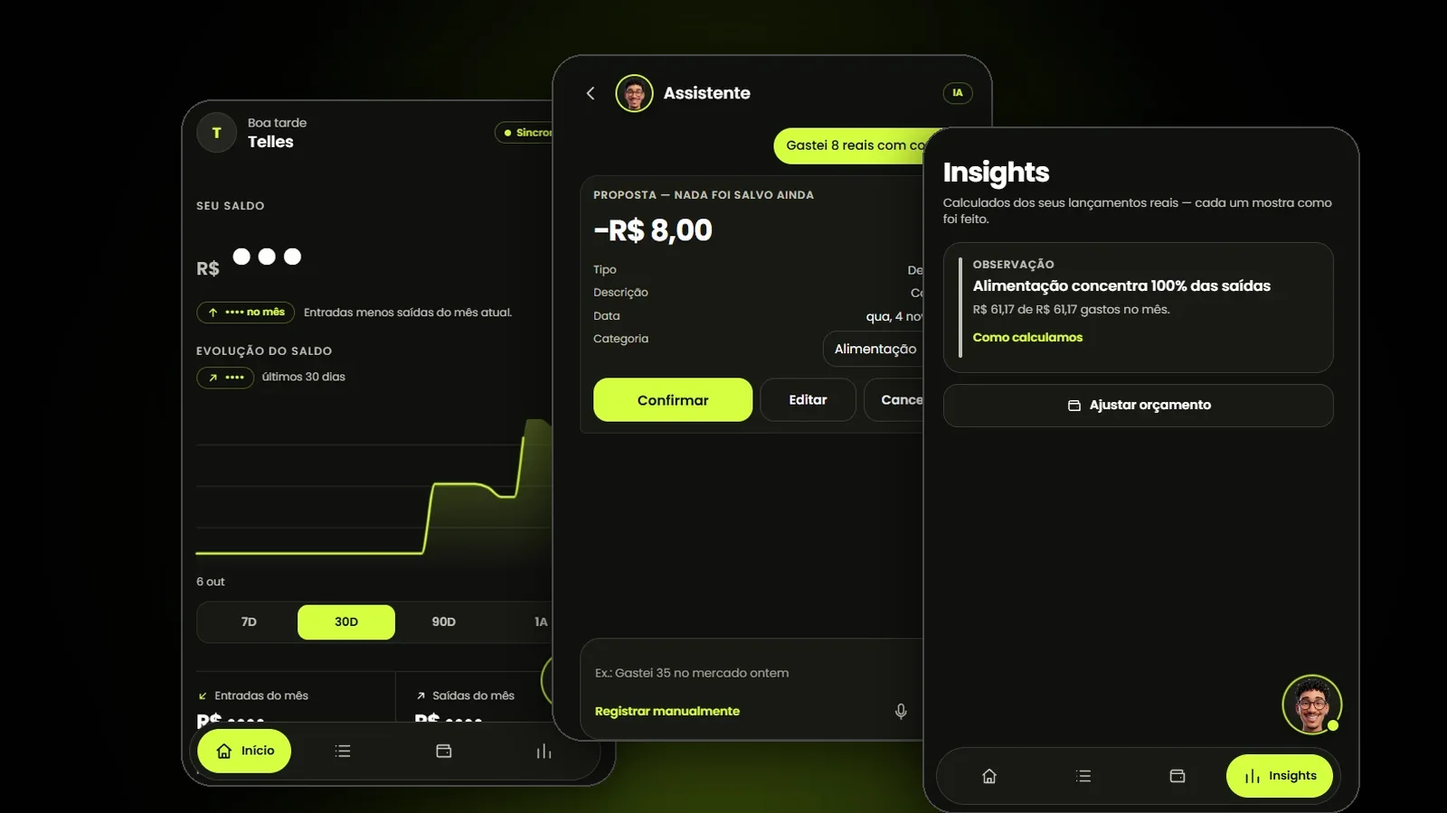
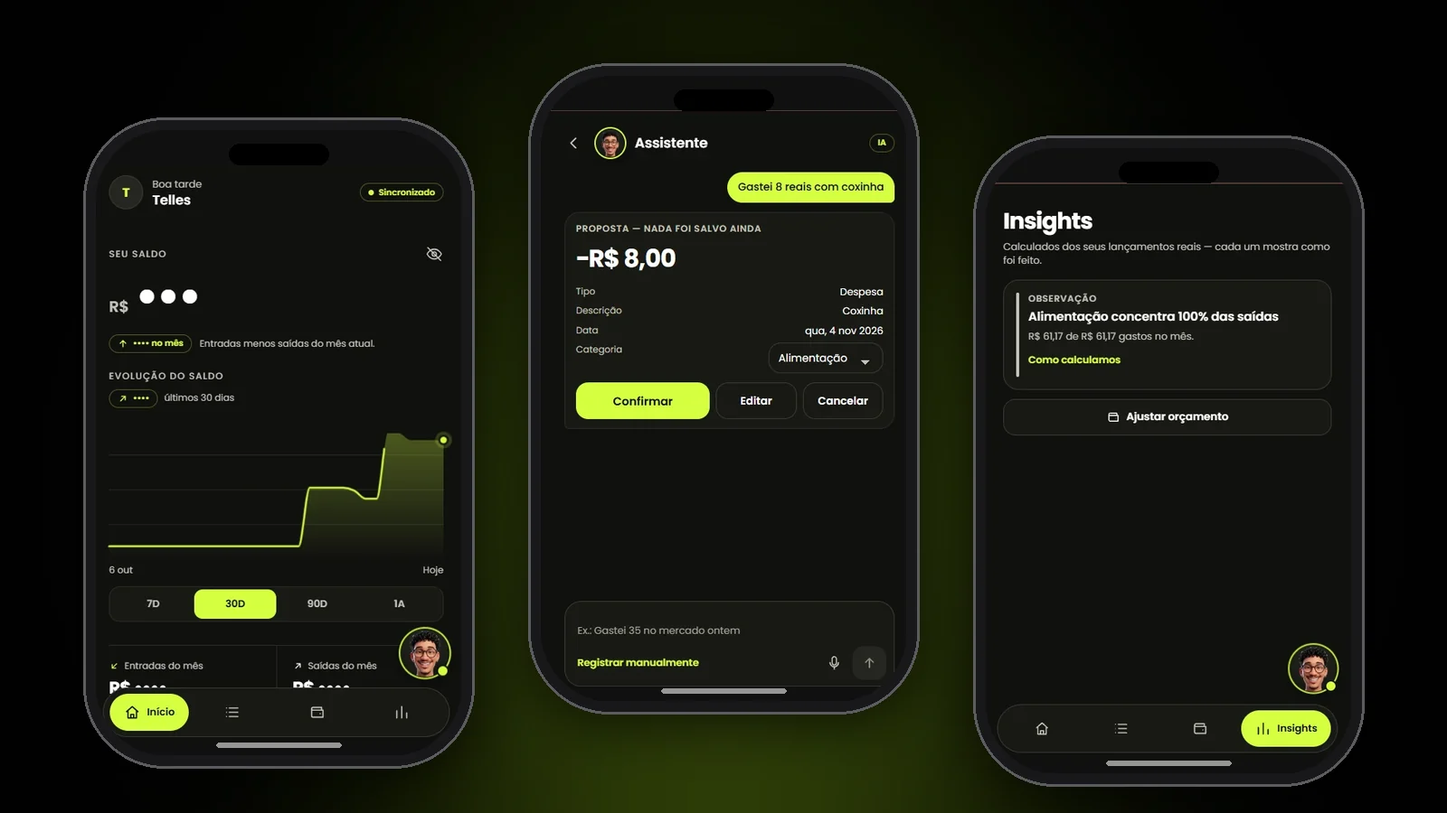
Coloca as telas do FIO em mockups de iPhone

diff --git a/work/fio/index.html b/work/fio/index.html
@@ -4,13 +4,13 @@
 <meta name="viewport" content="width=device-width,initial-scale=1"><meta name="theme-color" content="#0f0f0f">
 <link rel="preconnect" href="https://fonts.googleapis.com"><link rel="preconnect" href="https://fonts.gstatic.com" crossorigin>
 <link href="https://fonts.googleapis.com/css2?family=Instrument+Sans:wght@400;500&family=Space+Grotesk:wght@400;500;700&display=swap" rel="stylesheet">
-<link rel="stylesheet" href="/css/app.css?v=1794257032">
+<link rel="stylesheet" href="/css/app.css?v=1794257148">
 <script>try{var l=localStorage.getItem('wt-lang');if(l==='en'){document.documentElement.setAttribute('data-lang','en');document.documentElement.lang='en'}}catch(e){}</script>
 <script type="importmap">{"imports":{"three":"https://cdn.jsdelivr.net/npm/three@0.160.0/build/three.module.js","three/addons/":"https://cdn.jsdelivr.net/npm/three@0.160.0/examples/jsm/"}}</script>
 <script src="https://cdn.jsdelivr.net/npm/gsap@3.12.5/dist/gsap.min.js" defer></script>
 <script src="https://cdn.jsdelivr.net/npm/gsap@3.12.5/dist/ScrollTrigger.min.js" defer></script>
 <script src="https://cdn.jsdelivr.net/npm/lenis@1.1.13/dist/lenis.min.js" defer></script>
-<script type="module" src="/js/app.js?v=1794257032"></script><meta property="og:image" content="https://portfoliotelles.netlify.app/og-image.png">
+<script type="module" src="/js/app.js?v=1794257148"></script><meta property="og:image" content="https://portfoliotelles.netlify.app/og-image.png">
 </head>
 <body class="loading">
 <div class="bg" aria-hidden="true"><i class="blob b1"></i><i class="blob b2"></i><i class="blob b3"></i></div>
@@ -28,7 +28,7 @@
 <section class="phero"><div class="phero-in"><span class="eyebrow"><span data-l="pt">projeto</span><span data-l="en">project</span></span><h1 class="title-1">FIO</h1><ul class="chips"><li>assistente-de-ia</li><li>finanças-pessoais</li></ul><i class="vline hero-line" aria-hidden="true"></i></div></section>
 <section class="hshot-sec"><div class="hshot" data-hshot><div class="pshot"><img class="thumb" src="/img/projects/fio-thumb.webp" alt="" width="1600" height="900"></div></div></section>
 <section class="pinfo"><div class="pi-grid"><div class="pi-l"><div class="pi-f"><span class="pi-k"><span data-l="pt">ano</span><span data-l="en">year</span></span><p class="pi-v">2026</p></div><div class="pi-f"><span class="pi-k"><span data-l="pt">contexto</span><span data-l="en">context</span></span><p class="pi-v"><span data-l="pt">Projeto</span><span data-l="en">Project</span></p></div><div class="pi-f"><span class="pi-k"><span data-l="pt">atuação</span><span data-l="en">engagement</span></span><p class="pi-v"><span data-l="pt">O FIO é um aplicativo de controle financeiro pessoal com interface mobile, pensado para quem acha trabalhoso anotar cada gasto.</span><span data-l="en">FIO is a personal finance app with a mobile interface, designed for people who find it tedious to log every expense.</span></p><p class="pi-v"><span data-l="pt">Em vez de preencher formulários, você escreve uma frase, como “Gastei 8 reais com coxinha”. O assistente de IA entende o valor, a descrição, a data e a categoria e monta uma proposta de lançamento.</span><span data-l="en">Instead of filling in forms, you write a sentence, like “I spent 8 reais on a coxinha”. The AI assistant understands the amount, description, date and category and builds an entry proposal.</span></p><p class="pi-v"><span data-l="pt">A proposta chega marcada como “nada foi salvo ainda”. O lançamento só entra na lista depois que você confirma, edita ou cancela.</span><span data-l="en">The proposal arrives marked “nothing saved yet”. The entry only joins your list after you confirm, edit or cancel.</span></p></div></div><div class="pi-r"><div class="pi-f"><span class="pi-k"><span data-l="pt">participação</span><span data-l="en">role</span></span><p class="pi-v">Wesley Telles</p></div><div class="pi-f"><span class="pi-k"><span data-l="pt">tecnologias</span><span data-l="en">technologies</span></span><ul class="chips col"><li>preact</li><li>typescript</li><li>vite</li><li>supabase</li><li>gemini-api</li><li>pwa</li><li>vercel</li></ul></div></div></div></section>
-<section class="seq" data-seq style="--n:6"><div class="seq-pin"><div class="seq-stage"><figure class="seq-f" style="--c:#c8ff3d"><figcaption><span>01 / 06</span><h3><span data-l="pt">início</span><span data-l="en">home</span></h3></figcaption><div class="seq-i"><img src="/img/projects/fio-inicio.webp" alt="" width="480" height="750"></div></figure><figure class="seq-f" style="--c:#ff8fd8"><figcaption><span>02 / 06</span><h3><span data-l="pt">movimentações</span><span data-l="en">transactions</span></h3></figcaption><div class="seq-i"><img src="/img/projects/fio-movimentacoes.webp" alt="" width="480" height="750"></div></figure><figure class="seq-f" style="--c:#ffb347"><figcaption><span>03 / 06</span><h3><span data-l="pt">orçamento</span><span data-l="en">budget</span></h3></figcaption><div class="seq-i"><img src="/img/projects/fio-orcamento.webp" alt="" width="480" height="750"></div></figure><figure class="seq-f" style="--c:#7ff0e0"><figcaption><span>04 / 06</span><h3><span data-l="pt">assistente</span><span data-l="en">assistant</span></h3></figcaption><div class="seq-i"><img src="/img/projects/fio-assistente.webp" alt="" width="480" height="750"></div></figure><figure class="seq-f" style="--c:#9db8ff"><figcaption><span>05 / 06</span><h3><span data-l="pt">proposta do assistente</span><span data-l="en">assistant proposal</span></h3></figcaption><div class="seq-i"><img src="/img/projects/fio-proposta.webp" alt="" width="480" height="750"></div></figure><figure class="seq-f" style="--c:#f3f3f3"><figcaption><span>06 / 06</span><h3><span data-l="pt">insights</span><span data-l="en">insights</span></h3></figcaption><div class="seq-i"><img src="/img/projects/fio-insights.webp" alt="" width="480" height="750"></div></figure></div></div></section><section class="wins"><div class="two"><div class="win " data-reveal><div class="win-h"><h3><span data-l="pt">problema</span><span data-l="en">problem</span></h3><div class="win-c" aria-hidden="true"><svg class="ic" width="12" height="12" viewBox="0 0 24 24" fill="none" stroke="currentColor" stroke-width="1.75" stroke-linecap="round" stroke-linejoin="round" aria-hidden="true"><path d="M5 12h14"/></svg><svg class="ic" width="12" height="12" viewBox="0 0 24 24" fill="none" stroke="currentColor" stroke-width="1.75" stroke-linecap="round" stroke-linejoin="round" aria-hidden="true"><rect x="5" y="5" width="14" height="14" rx="1"/></svg><svg class="ic" width="12" height="12" viewBox="0 0 24 24" fill="none" stroke="currentColor" stroke-width="1.75" stroke-linecap="round" stroke-linejoin="round" aria-hidden="true"><path d="M18 6 6 18M6 6l12 12"/></svg></div></div><div class="win-b"><ol class="code"><li><span><span data-l="pt">O difícil não é saber para onde o dinheiro vai: é lembrar de anotar cada gasto.</span><span data-l="en">The hard part is not knowing where the money goes: it is remembering to log every expense.</span></span></li><li><span><span data-l="pt">Controlar o dinheiro precisa caber na rotina, sem virar mais uma tarefa.</span><span data-l="en">Tracking money has to fit into a routine, without becoming one more chore.</span></span></li></ol></div></div><div class="win " data-reveal><div class="win-h"><h3><span data-l="pt">solucao</span><span data-l="en">solution</span></h3><div class="win-c" aria-hidden="true"><svg class="ic" width="12" height="12" viewBox="0 0 24 24" fill="none" stroke="currentColor" stroke-width="1.75" stroke-linecap="round" stroke-linejoin="round" aria-hidden="true"><path d="M5 12h14"/></svg><svg class="ic" width="12" height="12" viewBox="0 0 24 24" fill="none" stroke="currentColor" stroke-width="1.75" stroke-linecap="round" stroke-linejoin="round" aria-hidden="true"><rect x="5" y="5" width="14" height="14" rx="1"/></svg><svg class="ic" width="12" height="12" viewBox="0 0 24 24" fill="none" stroke="currentColor" stroke-width="1.75" stroke-linecap="round" stroke-linejoin="round" aria-hidden="true"><path d="M18 6 6 18M6 6l12 12"/></svg></div></div><div class="win-b"><ol class="code"><li><span><span data-l="pt">Registro por conversa: uma frase vira um lançamento.</span><span data-l="en">Entry by conversation: one sentence becomes an entry.</span></span></li><li><span><span data-l="pt">A IA propõe e a pessoa decide: confirmar, editar ou cancelar antes de salvar.</span><span data-l="en">The AI proposes and the person decides: confirm, edit or cancel before saving.</span></span></li><li><span><span data-l="pt">Opção de registrar manualmente, quando preferir preencher os campos.</span><span data-l="en">A manual option for when you prefer to fill in the fields.</span></span></li><li><span><span data-l="pt">Números transparentes: os insights são calculados dos lançamentos reais e mostram “Como calculamos”.</span><span data-l="en">Transparent numbers: insights are computed from real entries and show “How we calculate”.</span></span></li></ol></div></div></div><div class="win w-full" data-reveal><div class="win-h"><h3><span data-l="pt">funcionalidades</span><span data-l="en">features</span></h3><div class="win-c" aria-hidden="true"><svg class="ic" width="12" height="12" viewBox="0 0 24 24" fill="none" stroke="currentColor" stroke-width="1.75" stroke-linecap="round" stroke-linejoin="round" aria-hidden="true"><path d="M5 12h14"/></svg><svg class="ic" width="12" height="12" viewBox="0 0 24 24" fill="none" stroke="currentColor" stroke-width="1.75" stroke-linecap="round" stroke-linejoin="round" aria-hidden="true"><rect x="5" y="5" width="14" height="14" rx="1"/></svg><svg class="ic" width="12" height="12" viewBox="0 0 24 24" fill="none" stroke="currentColor" stroke-width="1.75" stroke-linecap="round" stroke-linejoin="round" aria-hidden="true"><path d="M18 6 6 18M6 6l12 12"/></svg></div></div><div class="win-b"><ol class="code"><li><span><span data-l="pt"><span class="k-yellow">Início</span>: saldo com opção de ocultar, entradas menos saídas do mês e evolução do saldo em <span class="k-green">7D</span>, <span class="k-green">30D</span>, <span class="k-green">90D</span> e <span class="k-green">1A</span>.</span><span data-l="en"><span class="k-yellow">Home</span>: balance with a hide option, income minus expenses for the month and balance evolution over <span class="k-green">7D</span>, <span class="k-green">30D</span>, <span class="k-green">90D</span> and <span class="k-green">1Y</span>.</span></span></li><li><span><span data-l="pt"><span class="k-blue">Movimentações</span>: navegação por mês, resumo de entradas, saídas e resultado, busca por descrição ou categoria e filtros por tipo e categoria.</span><span data-l="en"><span class="k-blue">Transactions</span>: month navigation, a summary of income, expenses and result, search by description or category and filters by type and category.</span></span></li><li><span><span data-l="pt"><span class="k-red">Orçamento</span>: orçamento do mês, limites por categoria e metas.</span><span data-l="en"><span class="k-red">Budget</span>: monthly budget, limits per category and goals.</span></span></li><li><span><span data-l="pt"><span class="k-purple">Assistente de IA</span>: lançamentos em texto livre, com proposta editável de tipo, descrição, data e categoria.</span><span data-l="en"><span class="k-purple">AI assistant</span>: entries in free text, with an editable proposal for type, description, date and category.</span></span></li><li><span><span data-l="pt"><span class="k-sky">Insights</span>: observações calculadas dos lançamentos reais, com a explicação de como cada número foi obtido.</span><span data-l="en"><span class="k-sky">Insights</span>: observations computed from real entries, explaining how each number was obtained.</span></span></li><li><span><span data-l="pt">Status de sincronização visível no app.</span><span data-l="en">Sync status visible in the app.</span></span></li></ol></div></div><div class="win w-full" data-reveal><div class="win-h"><h3><span data-l="pt">filme</span><span data-l="en">film</span></h3><div class="win-c" aria-hidden="true"><svg class="ic" width="12" height="12" viewBox="0 0 24 24" fill="none" stroke="currentColor" stroke-width="1.75" stroke-linecap="round" stroke-linejoin="round" aria-hidden="true"><path d="M5 12h14"/></svg><svg class="ic" width="12" height="12" viewBox="0 0 24 24" fill="none" stroke="currentColor" stroke-width="1.75" stroke-linecap="round" stroke-linejoin="round" aria-hidden="true"><rect x="5" y="5" width="14" height="14" rx="1"/></svg><svg class="ic" width="12" height="12" viewBox="0 0 24 24" fill="none" stroke="currentColor" stroke-width="1.75" stroke-linecap="round" stroke-linejoin="round" aria-hidden="true"><path d="M18 6 6 18M6 6l12 12"/></svg></div></div><div class="win-b"><figure class="film"><video controls playsinline preload="none" poster="/img/projects/fio-lancamento.webp"><source src="/img/projects/fio-lancamento.mp4" type="video/mp4"></video><figcaption><span data-l="pt">Filme de lançamento do FIO (44 s), com narração.</span><span data-l="en">FIO launch film (44 s), narrated.</span></figcaption></figure></div></div><div class="win w-full" data-reveal><div class="win-h"><h3><span data-l="pt">participacao</span><span data-l="en">role</span></h3><div class="win-c" aria-hidden="true"><svg class="ic" width="12" height="12" viewBox="0 0 24 24" fill="none" stroke="currentColor" stroke-width="1.75" stroke-linecap="round" stroke-linejoin="round" aria-hidden="true"><path d="M5 12h14"/></svg><svg class="ic" width="12" height="12" viewBox="0 0 24 24" fill="none" stroke="currentColor" stroke-width="1.75" stroke-linecap="round" stroke-linejoin="round" aria-hidden="true"><rect x="5" y="5" width="14" height="14" rx="1"/></svg><svg class="ic" width="12" height="12" viewBox="0 0 24 24" fill="none" stroke="currentColor" stroke-width="1.75" stroke-linecap="round" stroke-linejoin="round" aria-hidden="true"><path d="M18 6 6 18M6 6l12 12"/></svg></div></div><div class="win-b"><ol class="code"><li><span><span data-l="pt"><span class="k-blue">Idealizador e desenvolvedor Full Stack</span>: concepção e desenvolvimento do FIO, da proposta e das funcionalidades até a interface e a implementação.</span><span data-l="en"><span class="k-blue">Creator and Full Stack developer</span>: conception and development of FIO, from the proposal and features to the interface and implementation.</span></span></li><li><span><span data-l="pt">Uso de ferramentas de <span class="k-green">inteligência artificial</span> como apoio, conduzindo as decisões de produto, experiência e implementação.</span><span data-l="en">Used <span class="k-green">artificial intelligence</span> tools as support, driving the product, experience and implementation decisions.</span></span></li></ol></div></div></section>
+<section class="seq" data-seq style="--n:6"><div class="seq-pin"><div class="seq-stage"><figure class="seq-f" style="--c:#c8ff3d"><figcaption><span>01 / 06</span><h3><span data-l="pt">início</span><span data-l="en">home</span></h3></figcaption><div class="seq-i"><div class="dev"><div class="dev-s"><img src="/img/projects/fio-inicio.webp" alt="" width="480" height="750"></div></div></div></figure><figure class="seq-f" style="--c:#ff8fd8"><figcaption><span>02 / 06</span><h3><span data-l="pt">movimentações</span><span data-l="en">transactions</span></h3></figcaption><div class="seq-i"><div class="dev"><div class="dev-s"><img src="/img/projects/fio-movimentacoes.webp" alt="" width="480" height="750"></div></div></div></figure><figure class="seq-f" style="--c:#ffb347"><figcaption><span>03 / 06</span><h3><span data-l="pt">orçamento</span><span data-l="en">budget</span></h3></figcaption><div class="seq-i"><div class="dev"><div class="dev-s"><img src="/img/projects/fio-orcamento.webp" alt="" width="480" height="750"></div></div></div></figure><figure class="seq-f" style="--c:#7ff0e0"><figcaption><span>04 / 06</span><h3><span data-l="pt">assistente</span><span data-l="en">assistant</span></h3></figcaption><div class="seq-i"><div class="dev"><div class="dev-s"><img src="/img/projects/fio-assistente.webp" alt="" width="480" height="750"></div></div></div></figure><figure class="seq-f" style="--c:#9db8ff"><figcaption><span>05 / 06</span><h3><span data-l="pt">proposta do assistente</span><span data-l="en">assistant proposal</span></h3></figcaption><div class="seq-i"><div class="dev"><div class="dev-s"><img src="/img/projects/fio-proposta.webp" alt="" width="480" height="750"></div></div></div></figure><figure class="seq-f" style="--c:#f3f3f3"><figcaption><span>06 / 06</span><h3><span data-l="pt">insights</span><span data-l="en">insights</span></h3></figcaption><div class="seq-i"><div class="dev"><div class="dev-s"><img src="/img/projects/fio-insights.webp" alt="" width="480" height="750"></div></div></div></figure></div></div></section><section class="wins"><div class="two"><div class="win " data-reveal><div class="win-h"><h3><span data-l="pt">problema</span><span data-l="en">problem</span></h3><div class="win-c" aria-hidden="true"><svg class="ic" width="12" height="12" viewBox="0 0 24 24" fill="none" stroke="currentColor" stroke-width="1.75" stroke-linecap="round" stroke-linejoin="round" aria-hidden="true"><path d="M5 12h14"/></svg><svg class="ic" width="12" height="12" viewBox="0 0 24 24" fill="none" stroke="currentColor" stroke-width="1.75" stroke-linecap="round" stroke-linejoin="round" aria-hidden="true"><rect x="5" y="5" width="14" height="14" rx="1"/></svg><svg class="ic" width="12" height="12" viewBox="0 0 24 24" fill="none" stroke="currentColor" stroke-width="1.75" stroke-linecap="round" stroke-linejoin="round" aria-hidden="true"><path d="M18 6 6 18M6 6l12 12"/></svg></div></div><div class="win-b"><ol class="code"><li><span><span data-l="pt">O difícil não é saber para onde o dinheiro vai: é lembrar de anotar cada gasto.</span><span data-l="en">The hard part is not knowing where the money goes: it is remembering to log every expense.</span></span></li><li><span><span data-l="pt">Controlar o dinheiro precisa caber na rotina, sem virar mais uma tarefa.</span><span data-l="en">Tracking money has to fit into a routine, without becoming one more chore.</span></span></li></ol></div></div><div class="win " data-reveal><div class="win-h"><h3><span data-l="pt">solucao</span><span data-l="en">solution</span></h3><div class="win-c" aria-hidden="true"><svg class="ic" width="12" height="12" viewBox="0 0 24 24" fill="none" stroke="currentColor" stroke-width="1.75" stroke-linecap="round" stroke-linejoin="round" aria-hidden="true"><path d="M5 12h14"/></svg><svg class="ic" width="12" height="12" viewBox="0 0 24 24" fill="none" stroke="currentColor" stroke-width="1.75" stroke-linecap="round" stroke-linejoin="round" aria-hidden="true"><rect x="5" y="5" width="14" height="14" rx="1"/></svg><svg class="ic" width="12" height="12" viewBox="0 0 24 24" fill="none" stroke="currentColor" stroke-width="1.75" stroke-linecap="round" stroke-linejoin="round" aria-hidden="true"><path d="M18 6 6 18M6 6l12 12"/></svg></div></div><div class="win-b"><ol class="code"><li><span><span data-l="pt">Registro por conversa: uma frase vira um lançamento.</span><span data-l="en">Entry by conversation: one sentence becomes an entry.</span></span></li><li><span><span data-l="pt">A IA propõe e a pessoa decide: confirmar, editar ou cancelar antes de salvar.</span><span data-l="en">The AI proposes and the person decides: confirm, edit or cancel before saving.</span></span></li><li><span><span data-l="pt">Opção de registrar manualmente, quando preferir preencher os campos.</span><span data-l="en">A manual option for when you prefer to fill in the fields.</span></span></li><li><span><span data-l="pt">Números transparentes: os insights são calculados dos lançamentos reais e mostram “Como calculamos”.</span><span data-l="en">Transparent numbers: insights are computed from real entries and show “How we calculate”.</span></span></li></ol></div></div></div><div class="win w-full" data-reveal><div class="win-h"><h3><span data-l="pt">funcionalidades</span><span data-l="en">features</span></h3><div class="win-c" aria-hidden="true"><svg class="ic" width="12" height="12" viewBox="0 0 24 24" fill="none" stroke="currentColor" stroke-width="1.75" stroke-linecap="round" stroke-linejoin="round" aria-hidden="true"><path d="M5 12h14"/></svg><svg class="ic" width="12" height="12" viewBox="0 0 24 24" fill="none" stroke="currentColor" stroke-width="1.75" stroke-linecap="round" stroke-linejoin="round" aria-hidden="true"><rect x="5" y="5" width="14" height="14" rx="1"/></svg><svg class="ic" width="12" height="12" viewBox="0 0 24 24" fill="none" stroke="currentColor" stroke-width="1.75" stroke-linecap="round" stroke-linejoin="round" aria-hidden="true"><path d="M18 6 6 18M6 6l12 12"/></svg></div></div><div class="win-b"><ol class="code"><li><span><span data-l="pt"><span class="k-yellow">Início</span>: saldo com opção de ocultar, entradas menos saídas do mês e evolução do saldo em <span class="k-green">7D</span>, <span class="k-green">30D</span>, <span class="k-green">90D</span> e <span class="k-green">1A</span>.</span><span data-l="en"><span class="k-yellow">Home</span>: balance with a hide option, income minus expenses for the month and balance evolution over <span class="k-green">7D</span>, <span class="k-green">30D</span>, <span class="k-green">90D</span> and <span class="k-green">1Y</span>.</span></span></li><li><span><span data-l="pt"><span class="k-blue">Movimentações</span>: navegação por mês, resumo de entradas, saídas e resultado, busca por descrição ou categoria e filtros por tipo e categoria.</span><span data-l="en"><span class="k-blue">Transactions</span>: month navigation, a summary of income, expenses and result, search by description or category and filters by type and category.</span></span></li><li><span><span data-l="pt"><span class="k-red">Orçamento</span>: orçamento do mês, limites por categoria e metas.</span><span data-l="en"><span class="k-red">Budget</span>: monthly budget, limits per category and goals.</span></span></li><li><span><span data-l="pt"><span class="k-purple">Assistente de IA</span>: lançamentos em texto livre, com proposta editável de tipo, descrição, data e categoria.</span><span data-l="en"><span class="k-purple">AI assistant</span>: entries in free text, with an editable proposal for type, description, date and category.</span></span></li><li><span><span data-l="pt"><span class="k-sky">Insights</span>: observações calculadas dos lançamentos reais, com a explicação de como cada número foi obtido.</span><span data-l="en"><span class="k-sky">Insights</span>: observations computed from real entries, explaining how each number was obtained.</span></span></li><li><span><span data-l="pt">Status de sincronização visível no app.</span><span data-l="en">Sync status visible in the app.</span></span></li></ol></div></div><div class="win w-full" data-reveal><div class="win-h"><h3><span data-l="pt">filme</span><span data-l="en">film</span></h3><div class="win-c" aria-hidden="true"><svg class="ic" width="12" height="12" viewBox="0 0 24 24" fill="none" stroke="currentColor" stroke-width="1.75" stroke-linecap="round" stroke-linejoin="round" aria-hidden="true"><path d="M5 12h14"/></svg><svg class="ic" width="12" height="12" viewBox="0 0 24 24" fill="none" stroke="currentColor" stroke-width="1.75" stroke-linecap="round" stroke-linejoin="round" aria-hidden="true"><rect x="5" y="5" width="14" height="14" rx="1"/></svg><svg class="ic" width="12" height="12" viewBox="0 0 24 24" fill="none" stroke="currentColor" stroke-width="1.75" stroke-linecap="round" stroke-linejoin="round" aria-hidden="true"><path d="M18 6 6 18M6 6l12 12"/></svg></div></div><div class="win-b"><figure class="film"><video controls playsinline preload="none" poster="/img/projects/fio-lancamento.webp"><source src="/img/projects/fio-lancamento.mp4" type="video/mp4"></video><figcaption><span data-l="pt">Filme de lançamento do FIO (44 s), com narração.</span><span data-l="en">FIO launch film (44 s), narrated.</span></figcaption></figure></div></div><div class="win w-full" data-reveal><div class="win-h"><h3><span data-l="pt">participacao</span><span data-l="en">role</span></h3><div class="win-c" aria-hidden="true"><svg class="ic" width="12" height="12" viewBox="0 0 24 24" fill="none" stroke="currentColor" stroke-width="1.75" stroke-linecap="round" stroke-linejoin="round" aria-hidden="true"><path d="M5 12h14"/></svg><svg class="ic" width="12" height="12" viewBox="0 0 24 24" fill="none" stroke="currentColor" stroke-width="1.75" stroke-linecap="round" stroke-linejoin="round" aria-hidden="true"><rect x="5" y="5" width="14" height="14" rx="1"/></svg><svg class="ic" width="12" height="12" viewBox="0 0 24 24" fill="none" stroke="currentColor" stroke-width="1.75" stroke-linecap="round" stroke-linejoin="round" aria-hidden="true"><path d="M18 6 6 18M6 6l12 12"/></svg></div></div><div class="win-b"><ol class="code"><li><span><span data-l="pt"><span class="k-blue">Idealizador e desenvolvedor Full Stack</span>: concepção e desenvolvimento do FIO, da proposta e das funcionalidades até a interface e a implementação.</span><span data-l="en"><span class="k-blue">Creator and Full Stack developer</span>: conception and development of FIO, from the proposal and features to the interface and implementation.</span></span></li><li><span><span data-l="pt">Uso de ferramentas de <span class="k-green">inteligência artificial</span> como apoio, conduzindo as decisões de produto, experiência e implementação.</span><span data-l="en">Used <span class="k-green">artificial intelligence</span> tools as support, driving the product, experience and implementation decisions.</span></span></li></ol></div></div></section>
 <section class="upnext"><h2 class="title-2" data-reveal><span data-l="pt">Próximo <span class='k-acc'>projeto</span></span><span data-l="en">Up <span class='k-acc'>next</span></span></h2><div class="prows list"><a class="prow" href="/work/nolinha/" data-prow><span class="idx">02</span><h3>Nolinha</h3><span class="yr"><svg class="ic arr" width="11" height="11" viewBox="0 0 24 24" fill="none" stroke="currentColor" stroke-width="1.75" stroke-linecap="round" stroke-linejoin="round" aria-hidden="true"><path d="M7 17 17 7M8 7h9v9"/></svg></span><ul class="chips"><li>chatbot</li><li>n8n</li><li>groq</li></ul><div class="prev" aria-hidden="true"><div class="pwin"><div class="pwin-h"><i></i><i></i><i></i><span>nolinha</span></div><div class="pshot"><div class="pshot-mock"><div class="nolinha-mock" role="img" aria-label="Interface do chat da Nolinha"><div class="nm-brand"><span class="nm-logo"><i></i><i></i><i></i><i></i></span><b>no<em>la</em></b></div><div class="nm-card"><div class="nm-head"><span class="nm-avatar"><span class="nm-logo red"><i></i><i></i><i></i><i></i></span></span><div><strong>Nolinha</strong><small><i class="nm-dot"></i>Online agora · responde em segundos</small></div><span class="nm-badge">IA</span></div><div class="nm-body"><div class="nm-msg"><span class="nm-mini"><span class="nm-logo white"><i></i><i></i><i></i><i></i></span></span><p>Olá, oi! 🎉 Que bom ter você aqui! Sou a Nolinha, assistente da Nola. Como posso te ajudar hoje?</p></div><time>22:45</time></div><div class="nm-chips"><span>Cancelar pedido</span><span>Integração iFood</span><span>Abrir caixa</span><span>Emitir NFC-e</span></div><div class="nm-input"><span>Digite sua dúvida aqui...</span><b>➤</b></div><div class="nm-end">✕ Encerrar atendimento</div></div><p class="nm-foot">Powered by <b>Nola</b> · IA com LLaMA 3 via Groq</p></div></div></div></div></div></a></div></section>
 <footer class="pfooter"><div class="fr"><a class="flogo" href="/"><svg width="22" height="22" viewBox="0 0 24 24" fill="none" stroke="currentColor" stroke-width="2.2" stroke-linecap="round" stroke-linejoin="round" aria-hidden="true"><path class="m1" d="M3.5 5.5 8 18.5l4-9"/><path class="m2" d="M12 9.5l4 9 4.5-13"/></svg><span>wesley <em>&lt;telles&gt;</em></span></a><nav class="fnav"><a href="/about/" data-nav="about"><span data-l="pt">sobre</span><span data-l="en">about</span></a><a href="/work/" data-nav="work"><span data-l="pt">projetos</span><span data-l="en">work</span></a><a href="/achievements/" data-nav="achievements"><span data-l="pt">conquistas</span><span data-l="en">achievements</span></a><a href="/contact/" data-nav="contact"><span data-l="pt">contato</span><span data-l="en">contact</span></a></nav></div><div class="fb"><span>© 2026 Wesley Telles</span><div class="soc"><a href="https://www.linkedin.com/in/wesley-telles" target="_blank" rel="noopener" aria-label="LinkedIn"><svg class="ic" width="16" height="16" viewBox="0 0 24 24" fill="none" stroke="currentColor" stroke-width="1.75" stroke-linecap="round" stroke-linejoin="round" aria-hidden="true"><path d="M16 8a6 6 0 0 1 6 6v7h-4v-7a2 2 0 0 0-4 0v7h-4v-7a6 6 0 0 1 6-6zM2 9h4v12H2zM4 4a2 2 0 1 1 0 4 2 2 0 0 1 0-4z"/></svg></a><a href="https://github.com/WesleyTelles" target="_blank" rel="noopener" aria-label="GitHub"><svg class="ic" width="16" height="16" viewBox="0 0 24 24" fill="none" stroke="currentColor" stroke-width="1.75" stroke-linecap="round" stroke-linejoin="round" aria-hidden="true"><path d="M15 22v-4a4.8 4.8 0 0 0-1-3.5c3 0 6-2 6-5.5.08-1.25-.27-2.48-1-3.5.28-1.15.28-2.35 0-3.5 0 0-1 0-3 1.5-2.64-.5-5.36-.5-8 0C6 2 5 2 5 2c-.3 1.15-.3 2.35 0 3.5A5.4 5.4 0 0 0 4 9c0 3.5 3 5.5 6 5.5-.39.49-.68 1.05-.85 1.65S8.93 17.38 9 18v4"/><path d="M9 18c-4.51 2-5-2-7-2"/></svg></a><a href="mailto:wesleytellesbr@gmail.com" aria-label="Email"><svg class="ic" width="16" height="16" viewBox="0 0 24 24" fill="none" stroke="currentColor" stroke-width="1.75" stroke-linecap="round" stroke-linejoin="round" aria-hidden="true"><rect x="2" y="4" width="20" height="16" rx="2"/><path d="m22 7-8.97 5.7a1.94 1.94 0 0 1-2.06 0L2 7"/></svg></a><a href="tel:+5581995339558" aria-label="Phone"><svg class="ic" width="16" height="16" viewBox="0 0 24 24" fill="none" stroke="currentColor" stroke-width="1.75" stroke-linecap="round" stroke-linejoin="round" aria-hidden="true"><path d="M22 16.92v3a2 2 0 0 1-2.18 2 19.8 19.8 0 0 1-8.63-3.07 19.5 19.5 0 0 1-6-6A19.8 19.8 0 0 1 2.12 4.18 2 2 0 0 1 4.11 2h3a2 2 0 0 1 2 1.72c.13.96.36 1.9.7 2.81a2 2 0 0 1-.45 2.11L8.09 9.91a16 16 0 0 0 6 6l1.27-1.27a2 2 0 0 1 2.11-.45c.91.34 1.85.57 2.81.7A2 2 0 0 1 22 16.92z"/></svg></a></div></div></footer></div></div></main>
 <div class="loader on" id="loader" aria-hidden="true"><svg class="lmark" viewBox="0 0 24 24" fill="none" stroke="currentColor" stroke-width="1.7" stroke-linecap="round" stroke-linejoin="round" aria-hidden="true"><path pathLength="100" d="M3.5 5.5 8 18.5l4-9 4 9 4.5-13"/></svg></div>

diff --git a/css/app.css b/css/app.css
@@ -471,3 +471,18 @@ h1,h2,h3,h4,p,ul,ol,figure{margin:0;padding:0}
 .seq-i{min-height:0;max-height:90%}
 .seq-i img{max-height:100%;object-fit:contain}
 @media (max-width:767px){.seq-f{grid-template-rows:auto minmax(0,1fr)}}
+
+/* ============ iPhone mockup (pure CSS): titanium frame, dynamic island, side buttons, home bar ============ */
+.dev{position:relative;height:100%;aspect-ratio:.6;padding:2.6%;border-radius:15% / 7%;
+  background:linear-gradient(145deg,#4a4a4e 0%,#1b1b1d 38%,#0b0b0c 62%,#3a3a3d 100%);
+  box-shadow:0 0 0 1.5px #5a5a5e inset,0 0 0 3px #0b0b0c inset,0 40px 80px rgba(0,0,0,.45),0 10px 24px rgba(0,0,0,.3)}
+.dev::before{content:"";position:absolute;left:-2.5px;top:16%;width:3px;height:6%;border-radius:2px 0 0 2px;background:#2c2c2f;
+  box-shadow:0 11.5vh 0 #2c2c2f,0 0 0 0 transparent}
+.dev::after{content:"";position:absolute;right:-2.5px;top:24%;width:3px;height:11%;border-radius:0 2px 2px 0;background:#2c2c2f}
+.dev-s{position:relative;display:flex;flex-direction:column;height:100%;padding:9.5% 0 4%;overflow:hidden;border-radius:12.5% / 5.8%;background:#101010}
+.dev-s::before{content:"";position:absolute;z-index:2;left:50%;top:2.1%;width:27%;height:3.4%;transform:translateX(-50%);border-radius:99px;background:#000}
+.dev-s::after{content:"";position:absolute;z-index:2;left:50%;bottom:1.3%;width:34%;height:.7%;transform:translateX(-50%);border-radius:99px;background:rgba(255,255,255,.55)}
+.dev-s img{flex:1;min-height:0;width:100%;height:auto;border:0;border-radius:0;box-shadow:none;object-fit:cover;object-position:top}
+.seq-i .dev{height:100%}
+.seq-i{height:92%;max-height:92%}
+.seq-i img{border:0;border-radius:0;box-shadow:none;max-height:none;object-fit:cover}

diff --git a/about/index.html b/about/index.html
@@ -4,13 +4,13 @@
 <meta name="viewport" content="width=device-width,initial-scale=1"><meta name="theme-color" content="#0f0f0f">
 <link rel="preconnect" href="https://fonts.googleapis.com"><link rel="preconnect" href="https://fonts.gstatic.com" crossorigin>
 <link href="https://fonts.googleapis.com/css2?family=Instrument+Sans:wght@400;500&family=Space+Grotesk:wght@400;500;700&display=swap" rel="stylesheet">
-<link rel="stylesheet" href="/css/app.css?v=1794257032">
+<link rel="stylesheet" href="/css/app.css?v=1794257148">
 <script>try{var l=localStorage.getItem('wt-lang');if(l==='en'){document.documentElement.setAttribute('data-lang','en');document.documentElement.lang='en'}}catch(e){}</script>
 <script type="importmap">{"imports":{"three":"https://cdn.jsdelivr.net/npm/three@0.160.0/build/three.module.js","three/addons/":"https://cdn.jsdelivr.net/npm/three@0.160.0/examples/jsm/"}}</script>
 <script src="https://cdn.jsdelivr.net/npm/gsap@3.12.5/dist/gsap.min.js" defer></script>
 <script src="https://cdn.jsdelivr.net/npm/gsap@3.12.5/dist/ScrollTrigger.min.js" defer></script>
 <script src="https://cdn.jsdelivr.net/npm/lenis@1.1.13/dist/lenis.min.js" defer></script>
-<script type="module" src="/js/app.js?v=1794257032"></script><meta property="og:image" content="https://portfoliotelles.netlify.app/og-image.png">
+<script type="module" src="/js/app.js?v=1794257148"></script><meta property="og:image" content="https://portfoliotelles.netlify.app/og-image.png">
 </head>
 <body class="loading">
 <div class="bg" aria-hidden="true"><i class="blob b1"></i><i class="blob b2"></i><i class="blob b3"></i></div>

diff --git a/achievements/index.html b/achievements/index.html
@@ -4,13 +4,13 @@
 <meta name="viewport" content="width=device-width,initial-scale=1"><meta name="theme-color" content="#0f0f0f">
 <link rel="preconnect" href="https://fonts.googleapis.com"><link rel="preconnect" href="https://fonts.gstatic.com" crossorigin>
 <link href="https://fonts.googleapis.com/css2?family=Instrument+Sans:wght@400;500&family=Space+Grotesk:wght@400;500;700&display=swap" rel="stylesheet">
-<link rel="stylesheet" href="/css/app.css?v=1794257032">
+<link rel="stylesheet" href="/css/app.css?v=1794257148">
 <script>try{var l=localStorage.getItem('wt-lang');if(l==='en'){document.documentElement.setAttribute('data-lang','en');document.documentElement.lang='en'}}catch(e){}</script>
 <script type="importmap">{"imports":{"three":"https://cdn.jsdelivr.net/npm/three@0.160.0/build/three.module.js","three/addons/":"https://cdn.jsdelivr.net/npm/three@0.160.0/examples/jsm/"}}</script>
 <script src="https://cdn.jsdelivr.net/npm/gsap@3.12.5/dist/gsap.min.js" defer></script>
 <script src="https://cdn.jsdelivr.net/npm/gsap@3.12.5/dist/ScrollTrigger.min.js" defer></script>
 <script src="https://cdn.jsdelivr.net/npm/lenis@1.1.13/dist/lenis.min.js" defer></script>
-<script type="module" src="/js/app.js?v=1794257032"></script><meta property="og:image" content="https://portfoliotelles.netlify.app/og-image.png">
+<script type="module" src="/js/app.js?v=1794257148"></script><meta property="og:image" content="https://portfoliotelles.netlify.app/og-image.png">
 </head>
 <body class="loading">
 <div class="bg" aria-hidden="true"><i class="blob b1"></i><i class="blob b2"></i><i class="blob b3"></i></div>

diff --git a/contact/index.html b/contact/index.html
@@ -4,13 +4,13 @@
 <meta name="viewport" content="width=device-width,initial-scale=1"><meta name="theme-color" content="#0f0f0f">
 <link rel="preconnect" href="https://fonts.googleapis.com"><link rel="preconnect" href="https://fonts.gstatic.com" crossorigin>
 <link href="https://fonts.googleapis.com/css2?family=Instrument+Sans:wght@400;500&family=Space+Grotesk:wght@400;500;700&display=swap" rel="stylesheet">
-<link rel="stylesheet" href="/css/app.css?v=1794257032">
+<link rel="stylesheet" href="/css/app.css?v=1794257148">
 <script>try{var l=localStorage.getItem('wt-lang');if(l==='en'){document.documentElement.setAttribute('data-lang','en');document.documentElement.lang='en'}}catch(e){}</script>
 <script type="importmap">{"imports":{"three":"https://cdn.jsdelivr.net/npm/three@0.160.0/build/three.module.js","three/addons/":"https://cdn.jsdelivr.net/npm/three@0.160.0/examples/jsm/"}}</script>
 <script src="https://cdn.jsdelivr.net/npm/gsap@3.12.5/dist/gsap.min.js" defer></script>
 <script src="https://cdn.jsdelivr.net/npm/gsap@3.12.5/dist/ScrollTrigger.min.js" defer></script>
 <script src="https://cdn.jsdelivr.net/npm/lenis@1.1.13/dist/lenis.min.js" defer></script>
-<script type="module" src="/js/app.js?v=1794257032"></script><meta property="og:image" content="https://portfoliotelles.netlify.app/og-image.png">
+<script type="module" src="/js/app.js?v=1794257148"></script><meta property="og:image" content="https://portfoliotelles.netlify.app/og-image.png">
 </head>
 <body class="loading">
 <div class="bg" aria-hidden="true"><i class="blob b1"></i><i class="blob b2"></i><i class="blob b3"></i></div>

diff --git a/index.html b/index.html
@@ -4,13 +4,13 @@
 <meta name="viewport" content="width=device-width,initial-scale=1"><meta name="theme-color" content="#0f0f0f">
 <link rel="preconnect" href="https://fonts.googleapis.com"><link rel="preconnect" href="https://fonts.gstatic.com" crossorigin>
 <link href="https://fonts.googleapis.com/css2?family=Instrument+Sans:wght@400;500&family=Space+Grotesk:wght@400;500;700&display=swap" rel="stylesheet">
-<link rel="stylesheet" href="/css/app.css?v=1794257032">
+<link rel="stylesheet" href="/css/app.css?v=1794257148">
 <script>try{var l=localStorage.getItem('wt-lang');if(l==='en'){document.documentElement.setAttribute('data-lang','en');document.documentElement.lang='en'}}catch(e){}</script>
 <script type="importmap">{"imports":{"three":"https://cdn.jsdelivr.net/npm/three@0.160.0/build/three.module.js","three/addons/":"https://cdn.jsdelivr.net/npm/three@0.160.0/examples/jsm/"}}</script>
 <script src="https://cdn.jsdelivr.net/npm/gsap@3.12.5/dist/gsap.min.js" defer></script>
 <script src="https://cdn.jsdelivr.net/npm/gsap@3.12.5/dist/ScrollTrigger.min.js" defer></script>
 <script src="https://cdn.jsdelivr.net/npm/lenis@1.1.13/dist/lenis.min.js" defer></script>
-<script type="module" src="/js/app.js?v=1794257032"></script><meta property="og:image" content="https://portfoliotelles.netlify.app/og-image.png">
+<script type="module" src="/js/app.js?v=1794257148"></script><meta property="og:image" content="https://portfoliotelles.netlify.app/og-image.png">
 </head>
 <body class="loading">
 <div class="bg" aria-hidden="true"><i class="blob b1"></i><i class="blob b2"></i><i class="blob b3"></i></div>

diff --git a/work/axcharge/index.html b/work/axcharge/index.html
@@ -4,13 +4,13 @@
 <meta name="viewport" content="width=device-width,initial-scale=1"><meta name="theme-color" content="#0f0f0f">
 <link rel="preconnect" href="https://fonts.googleapis.com"><link rel="preconnect" href="https://fonts.gstatic.com" crossorigin>
 <link href="https://fonts.googleapis.com/css2?family=Instrument+Sans:wght@400;500&family=Space+Grotesk:wght@400;500;700&display=swap" rel="stylesheet">
-<link rel="stylesheet" href="/css/app.css?v=1794257032">
+<link rel="stylesheet" href="/css/app.css?v=1794257148">
 <script>try{var l=localStorage.getItem('wt-lang');if(l==='en'){document.documentElement.setAttribute('data-lang','en');document.documentElement.lang='en'}}catch(e){}</script>
 <script type="importmap">{"imports":{"three":"https://cdn.jsdelivr.net/npm/three@0.160.0/build/three.module.js","three/addons/":"https://cdn.jsdelivr.net/npm/three@0.160.0/examples/jsm/"}}</script>
 <script src="https://cdn.jsdelivr.net/npm/gsap@3.12.5/dist/gsap.min.js" defer></script>
 <script src="https://cdn.jsdelivr.net/npm/gsap@3.12.5/dist/ScrollTrigger.min.js" defer></script>
 <script src="https://cdn.jsdelivr.net/npm/lenis@1.1.13/dist/lenis.min.js" defer></script>
-<script type="module" src="/js/app.js?v=1794257032"></script><meta property="og:image" content="https://portfoliotelles.netlify.app/og-image.png">
+<script type="module" src="/js/app.js?v=1794257148"></script><meta property="og:image" content="https://portfoliotelles.netlify.app/og-image.png">
 </head>
 <body class="loading">
 <div class="bg" aria-hidden="true"><i class="blob b1"></i><i class="blob b2"></i><i class="blob b3"></i></div>

diff --git a/work/buck/index.html b/work/buck/index.html
@@ -4,13 +4,13 @@
 <meta name="viewport" content="width=device-width,initial-scale=1"><meta name="theme-color" content="#0f0f0f">
 <link rel="preconnect" href="https://fonts.googleapis.com"><link rel="preconnect" href="https://fonts.gstatic.com" crossorigin>
 <link href="https://fonts.googleapis.com/css2?family=Instrument+Sans:wght@400;500&family=Space+Grotesk:wght@400;500;700&display=swap" rel="stylesheet">
-<link rel="stylesheet" href="/css/app.css?v=1794257032">
+<link rel="stylesheet" href="/css/app.css?v=1794257148">
 <script>try{var l=localStorage.getItem('wt-lang');if(l==='en'){document.documentElement.setAttribute('data-lang','en');document.documentElement.lang='en'}}catch(e){}</script>
 <script type="importmap">{"imports":{"three":"https://cdn.jsdelivr.net/npm/three@0.160.0/build/three.module.js","three/addons/":"https://cdn.jsdelivr.net/npm/three@0.160.0/examples/jsm/"}}</script>
 <script src="https://cdn.jsdelivr.net/npm/gsap@3.12.5/dist/gsap.min.js" defer></script>
 <script src="https://cdn.jsdelivr.net/npm/gsap@3.12.5/dist/ScrollTrigger.min.js" defer></script>
 <script src="https://cdn.jsdelivr.net/npm/lenis@1.1.13/dist/lenis.min.js" defer></script>
-<script type="module" src="/js/app.js?v=1794257032"></script><meta property="og:image" content="https://portfoliotelles.netlify.app/og-image.png">
+<script type="module" src="/js/app.js?v=1794257148"></script><meta property="og:image" content="https://portfoliotelles.netlify.app/og-image.png">
 </head>
 <body class="loading">
 <div class="bg" aria-hidden="true"><i class="blob b1"></i><i class="blob b2"></i><i class="blob b3"></i></div>

diff --git a/work/index.html b/work/index.html
@@ -4,13 +4,13 @@
 <meta name="viewport" content="width=device-width,initial-scale=1"><meta name="theme-color" content="#0f0f0f">
 <link rel="preconnect" href="https://fonts.googleapis.com"><link rel="preconnect" href="https://fonts.gstatic.com" crossorigin>
 <link href="https://fonts.googleapis.com/css2?family=Instrument+Sans:wght@400;500&family=Space+Grotesk:wght@400;500;700&display=swap" rel="stylesheet">
-<link rel="stylesheet" href="/css/app.css?v=1794257032">
+<link rel="stylesheet" href="/css/app.css?v=1794257148">
 <script>try{var l=localStorage.getItem('wt-lang');if(l==='en'){document.documentElement.setAttribute('data-lang','en');document.documentElement.lang='en'}}catch(e){}</script>
 <script type="importmap">{"imports":{"three":"https://cdn.jsdelivr.net/npm/three@0.160.0/build/three.module.js","three/addons/":"https://cdn.jsdelivr.net/npm/three@0.160.0/examples/jsm/"}}</script>
 <script src="https://cdn.jsdelivr.net/npm/gsap@3.12.5/dist/gsap.min.js" defer></script>
 <script src="https://cdn.jsdelivr.net/npm/gsap@3.12.5/dist/ScrollTrigger.min.js" defer></script>
 <script src="https://cdn.jsdelivr.net/npm/lenis@1.1.13/dist/lenis.min.js" defer></script>
-<script type="module" src="/js/app.js?v=1794257032"></script><meta property="og:image" content="https://portfoliotelles.netlify.app/og-image.png">
+<script type="module" src="/js/app.js?v=1794257148"></script><meta property="og:image" content="https://portfoliotelles.netlify.app/og-image.png">
 </head>
 <body class="loading">
 <div class="bg" aria-hidden="true"><i class="blob b1"></i><i class="blob b2"></i><i class="blob b3"></i></div>

diff --git a/work/nolinha/index.html b/work/nolinha/index.html
@@ -4,13 +4,13 @@
 <meta name="viewport" content="width=device-width,initial-scale=1"><meta name="theme-color" content="#0f0f0f">
 <link rel="preconnect" href="https://fonts.googleapis.com"><link rel="preconnect" href="https://fonts.gstatic.com" crossorigin>
 <link href="https://fonts.googleapis.com/css2?family=Instrument+Sans:wght@400;500&family=Space+Grotesk:wght@400;500;700&display=swap" rel="stylesheet">
-<link rel="stylesheet" href="/css/app.css?v=1794257032">
+<link rel="stylesheet" href="/css/app.css?v=1794257148">
 <script>try{var l=localStorage.getItem('wt-lang');if(l==='en'){document.documentElement.setAttribute('data-lang','en');document.documentElement.lang='en'}}catch(e){}</script>
 <script type="importmap">{"imports":{"three":"https://cdn.jsdelivr.net/npm/three@0.160.0/build/three.module.js","three/addons/":"https://cdn.jsdelivr.net/npm/three@0.160.0/examples/jsm/"}}</script>
 <script src="https://cdn.jsdelivr.net/npm/gsap@3.12.5/dist/gsap.min.js" defer></script>
 <script src="https://cdn.jsdelivr.net/npm/gsap@3.12.5/dist/ScrollTrigger.min.js" defer></script>
 <script src="https://cdn.jsdelivr.net/npm/lenis@1.1.13/dist/lenis.min.js" defer></script>
-<script type="module" src="/js/app.js?v=1794257032"></script><meta property="og:image" content="https://portfoliotelles.netlify.app/og-image.png">
+<script type="module" src="/js/app.js?v=1794257148"></script><meta property="og:image" content="https://portfoliotelles.netlify.app/og-image.png">
 </head>
 <body class="loading">
 <div class="bg" aria-hidden="true"><i class="blob b1"></i><i class="blob b2"></i><i class="blob b3"></i></div>

diff --git a/work/tipsteria/index.html b/work/tipsteria/index.html
@@ -4,13 +4,13 @@
 <meta name="viewport" content="width=device-width,initial-scale=1"><meta name="theme-color" content="#0f0f0f">
 <link rel="preconnect" href="https://fonts.googleapis.com"><link rel="preconnect" href="https://fonts.gstatic.com" crossorigin>
 <link href="https://fonts.googleapis.com/css2?family=Instrument+Sans:wght@400;500&family=Space+Grotesk:wght@400;500;700&display=swap" rel="stylesheet">
-<link rel="stylesheet" href="/css/app.css?v=1794257032">
+<link rel="stylesheet" href="/css/app.css?v=1794257148">
 <script>try{var l=localStorage.getItem('wt-lang');if(l==='en'){document.documentElement.setAttribute('data-lang','en');document.documentElement.lang='en'}}catch(e){}</script>
 <script type="importmap">{"imports":{"three":"https://cdn.jsdelivr.net/npm/three@0.160.0/build/three.module.js","three/addons/":"https://cdn.jsdelivr.net/npm/three@0.160.0/examples/jsm/"}}</script>
 <script src="https://cdn.jsdelivr.net/npm/gsap@3.12.5/dist/gsap.min.js" defer></script>
 <script src="https://cdn.jsdelivr.net/npm/gsap@3.12.5/dist/ScrollTrigger.min.js" defer></script>
 <script src="https://cdn.jsdelivr.net/npm/lenis@1.1.13/dist/lenis.min.js" defer></script>
-<script type="module" src="/js/app.js?v=1794257032"></script><meta property="og:image" content="https://portfoliotelles.netlify.app/og-image.png">
+<script type="module" src="/js/app.js?v=1794257148"></script><meta property="og:image" content="https://portfoliotelles.netlify.app/og-image.png">
 </head>
 <body class="loading">
 <div class="bg" aria-hidden="true"><i class="blob b1"></i><i class="blob b2"></i><i class="blob b3"></i></div>
